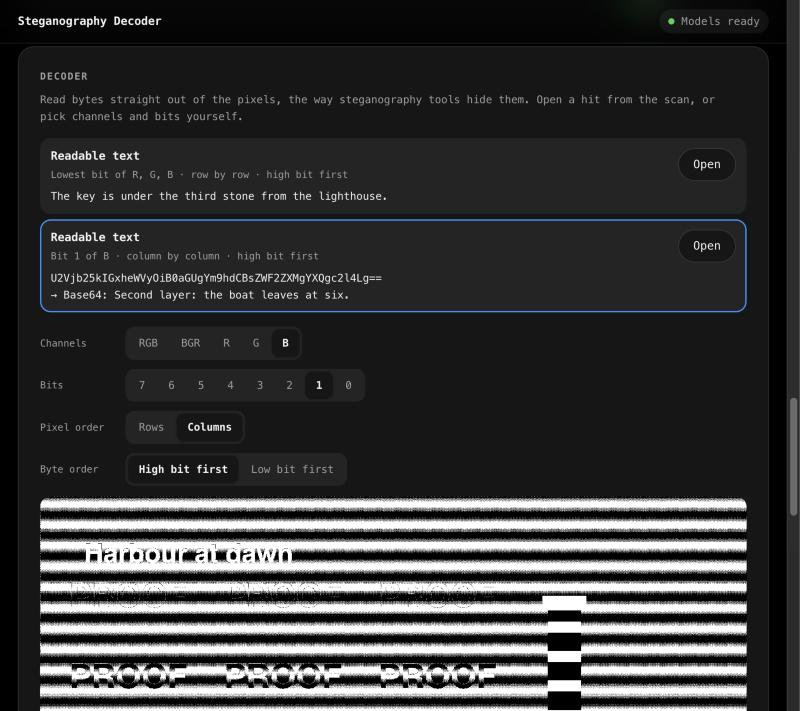
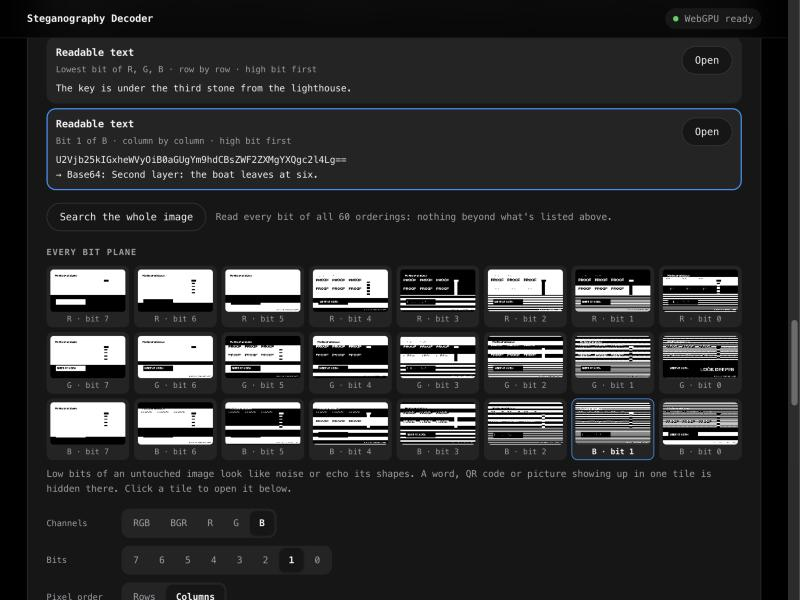
Squint view for illusion images; stricter whole-image search; new screenshots
- Squint view (shrink, blur, stretch): Florence-2 reads words formed by
  the scene, and Qwen gets it as an extra picture
- Whole-image search no longer reports repeating gradient patterns or
  random runs as text; Caesar decoding needs real words
- README: new Decoder, bit-plane readout, QR, Squint and AI screenshots,
  plus a test of which hidden words and figures the models can find

diff --git a/app.js b/app.js
@@ -1,7 +1,7 @@
 import { decodeImage } from "./lib/decode.js";
 import { analyzeContainer } from "./lib/metadata.js";
 import { analyzeLsb, analyzeSpectrum, analyzeColor, scalingAttackCheck, lsbPlaneView, fitSize, faintMarks, faintStrip } from "./lib/forensics.js";
-import { makeViews, VIEW_INFO } from "./lib/views.js";
+import { makeViews, VIEW_INFO, squintView } from "./lib/views.js";
 import { makeTiles, mergeOcr, ocrFindings, buildVlmInputs, buildPrompt, cornerCrops, cornerMarks, cornerMarkFindings, planeOcrTiles, planeOcrFindings } from "./lib/pipeline.js";
 import { cacheStatus, clearCache } from "./lib/opfs-cache.js";
 import { makeSample, drawSamplePreview } from "./lib/sample.js";
@@ -662,6 +662,7 @@ async function analyze(file) {
       ...spectrum.findings, ...scaling.findings,
     );
     const views = makeViews(img);
+    views.squint = squintView(img);
     const faint = faintMarks(img);
     const strip = faint.marks.length ? faintStrip(faint.view, faint.marks) : null;
     if (faint.marks.length) {
@@ -685,6 +686,7 @@ async function analyze(file) {
         { key: "normal", label: "Normal", img: views.normal, info: VIEW_INFO.normal, boxes: true },
         { key: "high", label: "High saturation", img: views.high, info: VIEW_INFO.high, boxes: true },
         { key: "low", label: "Low saturation", img: views.low, info: VIEW_INFO.low, boxes: true },
+        { key: "squint", label: "Squint", img: views.squint, info: VIEW_INFO.squint, boxes: true },
         ...(faint.marks.length ? [{ key: "faint", label: "Faint marks", img: faint.view, boxes: true,
           info: "Each pixel's difference from the flat colour around it, amplified. Shapes drawn a few shades off their background show up white." }] : []),
         { key: "colours", label: "Random colours", img: colourMapView(img), boxes: true,
@@ -737,6 +739,24 @@ async function analyze(file) {
         }
       }
       if (!stopped) {
+        // Words formed by the scene's large shapes (clouds, trees): read the
+        // squint view, keep what normal reading didn't already find.
+        phaseText = "Squinting for words in the scene…";
+        renderProgress();
+        const sq = views.squint;
+        const stile = [{ id: "squint", ch: "squint", bit: -1, sx: img.width / sq.width, sy: img.height / sq.height, image: sq }];
+        const sres = await call("florence", { tiles: [{ id: "squint", image: sq }] });
+        state.squintTexts = planeOcrFindings(stile, sres, state.texts);
+        for (const q of state.squintTexts) {
+          findings.push({
+            layer: "ocr", severity: "high", payload: true,
+            title: `The scene's shapes spell “${q.text}”`,
+            detail: "Read from the Squint view, where fine detail is blurred away and only large light and dark shapes remain. Clouds, trees or patterns are arranged to form these words; they're easy to miss at full size. Read by Florence-2, so check it in the Squint view.",
+            text: q.text,
+          });
+        }
+      }
+      if (!stopped) {
         phaseText = "Reading the lowest bit planes…";
         renderProgress();
         const ptiles = planeOcrTiles(img);
@@ -785,19 +805,21 @@ async function analyze(file) {
       currentStep = S.vlm; step(S.vlm, "active");
       $("stop").hidden = false;
       $("ai-card").hidden = false;
-      const { images, captions } = buildVlmInputs(views, state.texts, state.marks, strip, planeSheet(img, { bits: [0, 1], tile: 400 }));
+      const { images, captions } = buildVlmInputs(views, state.texts, state.marks, strip, planeSheet(img, { bits: [0, 1], tile: 400 }), squintView(img, { cols: 56, width: 640 }));
       const payloads = [];
       for (const m of lsb.messages) {
         const last = m.decoded?.at(-1);
         if (m.kind === "file") payloads.push({ where: m.order, text: `a ${m.label}` });
         else payloads.push({ where: m.order, text: last ? `${m.preview.slice(0, 60)}… which decodes (${m.decoded.map((l) => l.encoding).join(", then ")}) to: ${last.text ?? `a ${last.file.label}`}` : m.message });
       }
+      for (const q of state.squintTexts ?? []) payloads.push({ where: "words formed by the scene's large shapes, readable when squinting", text: q.text });
       for (const p of state.planeTexts ?? []) payloads.push({ where: `words drawn into bit ${p.bit} of ${p.ch} (a picture in the bits, read by OCR)`, text: p.text });
       for (const c of state.codes ?? []) payloads.push({ where: `a QR code in ${c.label}`, text: c.text });
       if (meta.trailing) payloads.push({ where: `data appended after the end of the image${meta.trailing.embedded ? ` (${meta.trailing.embedded})` : ""}`, text: meta.trailing.strings.join(" ") || `${meta.trailing.length} bytes` });
       if (state.faintText) payloads.push({ where: "near-invisible shapes in flat colour, read in order", text: state.faintText });
       const techniques = [];
       for (const m of lsb.messages) techniques.push(`LSB replacement: ${m.kind === "file" ? "a file" : "text"} in ${[...m.cfg.channels].join(",")} bit ${m.cfg.bits.join("+")}, ${m.cfg.order === "cols" ? "by columns" : "by rows"}${m.framing ? `, ${m.framing}` : ""}${m.decoded?.length ? `, ${m.decoded.map((l) => l.encoding).join(" + ")}-encoded` : ""}`);
+      if (state.squintTexts?.length) techniques.push("an illusion image: clouds, trees or patterns in the scene are shaped to form words, visible when squinting");
       if (state.planeTexts?.length) techniques.push("text drawn as a picture into a single bit plane, invisible in the image and unreadable as bytes");
       for (const c of state.codes ?? []) techniques.push(c.inPlane ? `a QR code drawn into ${c.label}, invisible in the normal picture` : `a visible QR code in ${c.label}`);
       if (meta.trailing) techniques.push("a file appended after the image's end marker, which viewers ignore");

diff --git a/lib/stego.js b/lib/stego.js
@@ -203,7 +203,18 @@ export function looksLikeText(bytes, start = 0, len = bytes.length - start) {
   const top = Math.max(...counts.values());
   let letters = 0;
   for (const [b, c] of counts) if ((b >= 65 && b <= 90) || (b >= 97 && b <= 122)) letters += c;
-  return counts.size >= Math.min(8, Math.ceil(len / 3)) && top / len < 0.35 && letters / len > 0.5;
+  if (!(counts.size >= Math.min(8, Math.ceil(len / 3)) && top / len < 0.35 && letters / len > 0.5)) return false;
+  // Gradients give short repeating cycles of varied characters ("UW}UW}UW}",
+  // "4sG4sG4s"): each byte matches the one a few places back. English matches
+  // at any short shift well under a third of the time.
+  if (len >= 12) {
+    for (let p = 1; p <= 8; p++) {
+      let same = 0;
+      for (let i = start + p; i < start + len; i++) if (bytes[i] === bytes[i - p]) same++;
+      if (same / (len - p) > 0.45) return false;
+    }
+  }
+  return true;
 }
 
 export function asLatin1(bytes, start = 0, len = bytes.length - start) {
@@ -270,7 +281,11 @@ const COMMON = new Set(("the be to of and a in that have it for not on with he a
   "hidden secret message here behind left right north south east west door box code password flag").split(" "));
 function englishScore(s) {
   const words = s.toLowerCase().match(/[a-z]+/g) ?? [];
-  return { words: words.length, score: words.length ? words.filter((w) => COMMON.has(w)).length / words.length : 0 };
+  const hits = words.filter((w) => COMMON.has(w));
+  // Distinct common words of two letters or more: a lone "a" or one word
+  // repeated is no evidence of English.
+  const distinct = new Set(hits.filter((w) => w.length >= 2)).size;
+  return { words: words.length, distinct, score: words.length ? hits.length / words.length : 0 };
 }
 const shiftText = (s, k) => s.replace(/[a-z]/gi, (c) => {
   const a = c <= "Z" ? 65 : 97;
@@ -282,10 +297,10 @@ function tryCaesar(s) {
   let best = null;
   for (let k = 1; k < 26; k++) {
     const t = shiftText(s, k);
-    const { score } = englishScore(t);
-    if (!best || score > best.score) best = { k, t, score };
+    const { score, distinct } = englishScore(t);
+    if (!best || score > best.score) best = { k, t, score, distinct };
   }
-  if (best.score < 0.3) return null;
+  if (best.score < 0.3 || best.distinct < 3) return null;
   const n = 26 - best.k; // the shift the hider applied
   return { encoding: n === 13 ? "ROT13" : `a Caesar shift of ${n}`, text: best.t };
 }
@@ -444,11 +459,26 @@ export function deepScanOne(img, cfg, { maxHits = 8 } = {}) {
     const run = printableRun(all, i);
     if (run >= 20 && looksLikeText(all, i, run)) {
       const { message, framing } = cleanMessage(asLatin1(all, i, run));
-      hits.push({ cfg, order, offset: i, kind: "text", length: message.length, framing, preview: message.slice(0, 400), message, decoded: decodeLayers(message) });
+      const decoded = decodeLayers(message);
+      // Millions of starting points: short random runs pass the text test by
+      // chance, so a hit here must also read as words or decode to something.
+      if (decoded.length || plausibleWords(message)) {
+        hits.push({ cfg, order, offset: i, kind: "text", length: message.length, framing, preview: message.slice(0, 400), message, decoded });
+      }
     }
     i += run;
   }
   return hits;
+}
+
+// Reads like words: several spaces, mostly letters between them, and at
+// least two different common English words.
+export function plausibleWords(text) {
+  const spaces = (text.match(/ /g) ?? []).length;
+  if (spaces < 2) return false;
+  const words = text.split(/\s+/).filter(Boolean);
+  const wordy = words.filter((w) => /^[A-Za-z][A-Za-z'’-]*[.,:;!?"”)]*$/.test(w)).length;
+  return wordy / words.length >= 0.6 && englishScore(text).distinct >= 2;
 }
 
 export function deepScan(img) {

diff --git a/lib/pipeline.js b/lib/pipeline.js
@@ -247,7 +247,7 @@ function regionCrop(img, box, maxSide = 384) {
   return resizeArea(c, tw, th);
 }
 
-export function buildVlmInputs(views, texts, marks = [], faintStripImg = null, planes = null) {
+export function buildVlmInputs(views, texts, marks = [], faintStripImg = null, planes = null, squint = null) {
   const { width, height } = views.normal;
   const [ow, oh] = fitSize(width, height, OVERVIEW_PIXELS);
   const [sw, sh] = fitSize(width, height, SECOND_VIEW_PIXELS);
@@ -262,6 +262,11 @@ export function buildVlmInputs(views, texts, marks = [], faintStripImg = null, p
   } else {
     images.push(resizeArea(views.high, sw, sh));
     captions.push("Picture 2: a copy this tool processed with colours exaggerated 3×, to expose colour-camouflaged marks. The real image does not look like this.");
+  }
+  if (squint) {
+    images.push(squint);
+    captions.push(`Picture ${images.length}: the whole image shrunk to a few dozen pixels across, blurred and contrast-stretched, in grey: like squinting at it. ` +
+      "Fine detail is gone and only large light and dark shapes remain. If those shapes form words, letters, an animal, a face or another figure that isn't obvious in Picture 1, the scene was arranged to hide it: say what it is.");
   }
   const picks = [
     ...texts.filter((t) => t.enhancedOnly),
@@ -367,7 +372,7 @@ export function buildPrompt({ captions, findings, texts, color, meta, stego = nu
   lines.push("Rules: one or two bullets per heading; each bullet is one sentence of at most 25 words, in your own words. Never copy finding lines, severity tags or these rules; quote only a recovered message itself.");
   lines.push("- Verdict: begin with \"Hidden content found\", \"Signs of hiding, nothing decoded\" or \"Nothing hidden detected\", then the strongest evidence.");
   lines.push("- Recovered payloads: one bullet per payload, saying where it was hidden and what it says; or \"None recovered\".");
-  lines.push("- Visual clues: what only looking reveals and the decoders can't read: text, a QR code or a picture inside one bit-plane tile; symbol codes drawn in the scene (Morse dots and dashes, binary, braille, pigpen); objects that seem deliberately placed or counted. Or \"None seen\".");
+  lines.push("- Visual clues: what only looking reveals and the decoders can't read: words or a figure formed by the scene's large shapes (compare the squint picture with Picture 1: clouds spelling a word, an animal outlined in clouds); text, a QR code or a picture inside one bit-plane tile; symbol codes drawn in the scene (Morse dots and dashes, binary, braille, pigpen). Or \"None seen\".");
   lines.push("- Hiding technique: explain the detected techniques listed in the findings, and nothing else; name a tool only if the findings name one.");
   lines.push("- What it means: what the recovered content suggests together, and how it relates to the picture; mark guesses as guesses. Base64, hex, ROT13 and Caesar are encodings, not encryption.");
   lines.push("- Next steps: save or open what was recovered, open a bit plane or search the whole image in the Decoder, or say \"Nothing further\". Suggest a password tool such as steghide only if there are signs of hiding but nothing was decoded, or the file is a JPEG.");

diff --git a/lib/views.js b/lib/views.js
@@ -2,6 +2,8 @@
 // so faint text, hidden marks and colour patterns stand out. Pure functions
 // over RGBA images.
 
+import { resizeArea } from "./forensics.js";
+
 const luma = (r, g, b) => 0.299 * r + 0.587 * g + 0.114 * b;
 
 // Scale saturation around each pixel's luminance (0 = greyscale, 1 = unchanged).
@@ -62,6 +64,7 @@ export const VIEW_INFO = {
   normal: "Normal: the image as it is",
   high: "High saturation: colour differences boosted 3× and contrast stretched. Reveals marks that differ only in hue",
   low: "Low saturation: colour removed and brightness equalised. Reveals faint marks that differ only in shade",
+  squint: "Squint: shrunk to a few dozen pixels across and blurred, like squinting. Words or shapes formed by clouds, trees or patterns stand out",
 };
 
 export function makeViews(img) {
@@ -70,4 +73,40 @@ export function makeViews(img) {
     high: autoContrast(scaleSaturation(img, 3)),
     low: equalize(scaleSaturation(img, 0)),
   };
+}
+
+// "Squint" view: the picture shrunk to a few dozen pixels across, blown back
+// up smoothly and contrast-stretched. Fine detail disappears and only large
+// light and dark shapes remain, which is how people spot words or figures
+// formed by clouds, trees or patterns (AI "hidden word" illusion images).
+export function squintView(img, { cols = 96, width = 768 } = {}) {
+  const sw = Math.max(8, Math.min(cols, img.width));
+  const sh = Math.max(4, Math.round((sw * img.height) / img.width));
+  const small = resizeArea(img, sw, sh);
+  // Brightness only: colour is part of the detail being thrown away.
+  const lum = new Float32Array(sw * sh);
+  for (let i = 0; i < sw * sh; i++) lum[i] = 0.299 * small.data[i * 4] + 0.587 * small.data[i * 4 + 1] + 0.114 * small.data[i * 4 + 2];
+  const W = Math.min(width, img.width * 2), H = Math.max(1, Math.round((W * img.height) / img.width));
+  const up = new Float32Array(W * H);
+  for (let y = 0; y < H; y++) {
+    const fy = Math.min(sh - 1, Math.max(0, ((y + 0.5) * sh) / H - 0.5));
+    const y0 = Math.floor(fy), y1 = Math.min(sh - 1, y0 + 1), ty = fy - y0;
+    for (let x = 0; x < W; x++) {
+      const fx = Math.min(sw - 1, Math.max(0, ((x + 0.5) * sw) / W - 0.5));
+      const x0 = Math.floor(fx), x1 = Math.min(sw - 1, x0 + 1), tx = fx - x0;
+      const a = lum[y0 * sw + x0] * (1 - tx) + lum[y0 * sw + x1] * tx;
+      const b = lum[y1 * sw + x0] * (1 - tx) + lum[y1 * sw + x1] * tx;
+      up[y * W + x] = a * (1 - ty) + b * ty;
+    }
+  }
+  // Stretch the 2nd–98th percentile to full range.
+  const sorted = Float32Array.from(up).sort();
+  const lo = sorted[Math.floor(sorted.length * 0.02)], hi = sorted[Math.floor(sorted.length * 0.98)];
+  const out = new Uint8ClampedArray(W * H * 4);
+  for (let i = 0; i < W * H; i++) {
+    const v = ((up[i] - lo) / Math.max(1, hi - lo)) * 255;
+    out[i * 4] = out[i * 4 + 1] = out[i * 4 + 2] = v;
+    out[i * 4 + 3] = 255;
+  }
+  return { width: W, height: H, data: out };
 }

diff --git a/.github/README.md b/.github/README.md
@@ -23,7 +23,7 @@ Every analysis scans the pixels the way steganography tools write into them: 60 
 
 The Decoder panel lists the hits. Open one, or pick any channels and bits yourself, to see that bit plane as a picture, read a hex dump of the bytes, and save them. Embedded files are cut at their real end (PNG `IEND`, the JPEG end marker, the ZIP directory record, PDF `%%EOF`). Data appended after the end of the image file can be saved from the File card.
 
-![The Decoder panel on the Harbour sample: two hits, the second in bit 1 of blue read column by column, a Base64 string that decodes to “Second layer: the boat leaves at six.”, the channel and bit controls, and that bit plane as a black-and-white picture](decoder.jpg)
+![The Decoder panel on the Harbour sample: two hits (a sentence in the lowest bits, and Base64 in bit 1 of blue that decodes to “Second layer: the boat leaves at six.”), the whole-image search reporting nothing more, and the grid of all 24 bit planes, where the G · bit 0 tile shows LOOK DEEPER](decoder.jpg)
 
 More tools in the panel:
 
@@ -32,7 +32,9 @@ More tools in the panel:
 - **Pixel readout.** Point at any picture to see that pixel's position, RGB values, hex colour and lowest four bits per channel.
 - **QR codes** are looked for in the picture, its saturated view and the two lowest bit planes of each channel, in a background worker. A code hidden in a single bit plane is reported as hidden data.
 
-![The bit-plane grid on the Harbour sample: 24 tiles, rows R, G and B, bits 7 to 0. The “G · bit 0” tile is selected and shows the words LOOK DEEPER, which are invisible in the image](plane-grid.jpg)
+![Green's lowest bit on the Harbour sample, full size: the words LOOK DEEPER stand out in a black box. Under the picture, the pixel readout shows x 978, y 871, the RGB values, the hex colour and the lowest four bits of each channel](plane-readout.jpg)
+
+![A QR code hidden in bit 0 of red: the finding gives the URL it holds, and a green box marks where it is, although nothing shows in the normal picture](qr-finding.jpg)
 
 The Harbour sample hides three messages in its bits. The scan reads the first in the lowest bit of R, G and B, and the second in bit 1 of blue, read column by column, as Base64. The third, “LOOK DEEPER”, is drawn as a picture into green's lowest bit, so no byte scan can read it: the grid shows it, Florence-2 reads it from that plane, and it's reported as hidden text.
 
@@ -41,10 +43,28 @@ The Harbour sample hides three messages in its bits. The scan reads the first in
 The decoders read bytes; the models read pictures. That covers hiding that byte scans and statistics can't see:
 
 - **Pictures hidden in bits.** Words, a logo or a second image drawn into one bit plane come out of a byte scan as gibberish. Florence-2 reads text in the lowest plane of each channel (ignoring the echoes of the picture's own visible text), and Qwen3-VL-2B gets a grid of the two lowest planes of each channel to look for anything else.
+- **Words formed by the scene.** AI “illusion” images arrange clouds, trees or patterns into words you only see when you squint. The Squint view does the squinting (shrink to a few dozen pixels, blur, stretch contrast), Florence-2 reads it, and Qwen gets it as an extra picture.
 - **Codes drawn in the scene.** Morse dots and dashes, binary as marks, braille, pigpen, objects that are deliberately counted or placed. These are shapes, not bits.
 - **Meaning.** Connecting recovered messages to each other and to the picture (“the third stone from the lighthouse” in a picture of a lighthouse), and suggesting where to look next.
 
 What it can't do: read bits itself, or be fully trusted. At 2B parameters it can miss things or invent them, so the decoders produce the evidence and the model only interprets it.
+
+### Tested: can the models find words and figures hidden in a scene?
+
+Two AI-generated illusion images: clouds spelling **FIND ME** over a valley, and a **fox's head** outlined in sunset clouds.
+
+| | Hidden words (FIND ME) | Hidden figure (fox) |
+|---|---|---|
+| Qwen3-VL-2B on the full picture | Missed: "a normal landscape" | Missed: "nothing hidden" |
+| Qwen3-VL-2B on the squint view, asked directly | Missed | Missed |
+| Florence-2 captions or object detection on the squint view | Noise ("vehicle", "horse") | Noise ("toilet", "window") |
+| **Florence-2 reading the squint view** | **Found: "FINDMEI"** (FIND ME plus a stray stroke) | — |
+
+So hidden *words* are found, by squinting and reading rather than by asking the AI to look, and Qwen then explains them. Hidden *figures* like the fox are beyond both small models; seeing them reliably would need a larger vision model than a laptop browser can run, or a dedicated shape classifier. The Squint view still shows the fox to a person.
+
+![The Squint view of the valley image: shrunk, blurred and in grey, the clouds clearly spell FIND ME](squint-view.jpg)
+
+![Qwen3-VL-2B's steganalysis of the valley image: hidden content found, the scene's shapes spell “FINDMEI”, an illusion image](valley-steganalysis.jpg)
 
 ## Real demos
 
@@ -68,7 +88,9 @@ All of these are one-click demos in the app, and everything shown is the app's a
 
 The faint-mark check finds seven shapes that differ from their stripe by only a few shades, lines them up in reading order and reads them: **REACHES**.
 
-![Findings for the colour stripes image (the faint shapes spell REACHES) followed by Qwen3-VL-2B's steganalysis: verdict, recovered payload, hiding technique, what it means and next steps](stripes-findings.jpg)
+![Findings for the colour stripes image (the faint shapes spell REACHES) followed by Qwen3-VL-2B's steganalysis under six headings: verdict, recovered payloads, visual clues, hiding technique, what it means](stripes-findings.jpg)
+
+The report gets the payload right but also shows the model's limits: its hiding-technique line claims “bit-level manipulation”, which the findings don't support. The letters are a few shades off, not hidden in the bits. That's why the findings come first.
 
 ### More demos in the app
 
@@ -83,6 +105,7 @@ The faint-mark check finds seven shapes that differ from their stripe by only a 
 | **Content credentials** | Reads the C2PA manifest: declared source (camera, AI-generated, AI-edited…), the tool that made it, and recorded steps such as edits or an added invisible watermark | none |
 | **Hidden bits** | Scans 60 channel, bit and order combinations (84 with alpha) for text and file signatures, strips tool framing, and decodes Base64, hex and binary. Also runs a chi-square attack, and compares aligned and misaligned value pairs in flat areas, counting only scattered flips (a solid faint shape isn't noise) | none |
 | **Bit planes and colours** | Any bit of any channel as a picture, and a random colour map that gives every distinct colour its own colour, so shades one step apart stand out | none |
+| **Squint** | Shrinks the picture to a few dozen pixels across, blurs it and stretches contrast, so words formed by clouds or patterns stand out; Florence-2 reads the result | Florence-2-base |
 | **Text in bit planes** | Reads the lowest bit plane of each channel as a picture and keeps words that aren't also visible in the image | Florence-2-base |
 | **QR codes** | jsQR over the picture, its saturated view and the two lowest bit planes of each channel | none |
 | **Faint marks** | In flat-colour artwork: shapes enclosed by one flat area and only a few shades off its colour. Shown amplified in a Faint marks view, lined up in reading order and read with OCR | Florence-2-base (to read them) |

diff --git a/README.md b/README.md
@@ -29,6 +29,7 @@ Safari 26+).
 | Content credentials | C2PA manifest: declared source (e.g. AI-generated), the tool that made it, and recorded steps such as an added invisible watermark. Not signature-verified | none |
 | Hidden bits | Scans 60 channel, bit and order combinations (84 with alpha) for text and file signatures; strips tool framing (Stegano length prefix, end markers); decodes Base64, hex and binary. Plus a chi-square attack and aligned-pair analysis of flat areas | none |
 | Decoder | Any bit plane as a picture, a grid of all planes, a whole-image search, a pixel readout, a hex dump, and saving the bytes; embedded files cut at their real end; appended data saveable | none |
+| Squint | The picture shrunk, blurred and contrast-stretched, so words formed by clouds or patterns stand out; read by OCR | Florence-2-base |
 | Text in bit planes | Reads the lowest plane of each channel as a picture; keeps words not visible in the image | Florence-2-base |
 | QR codes | jsQR over the picture and the two lowest bit planes of each channel | none |
 | Faint marks | In flat-colour artwork, shapes only a few shades off the flat area around them; shown amplified and read in order | Florence-2-base |
